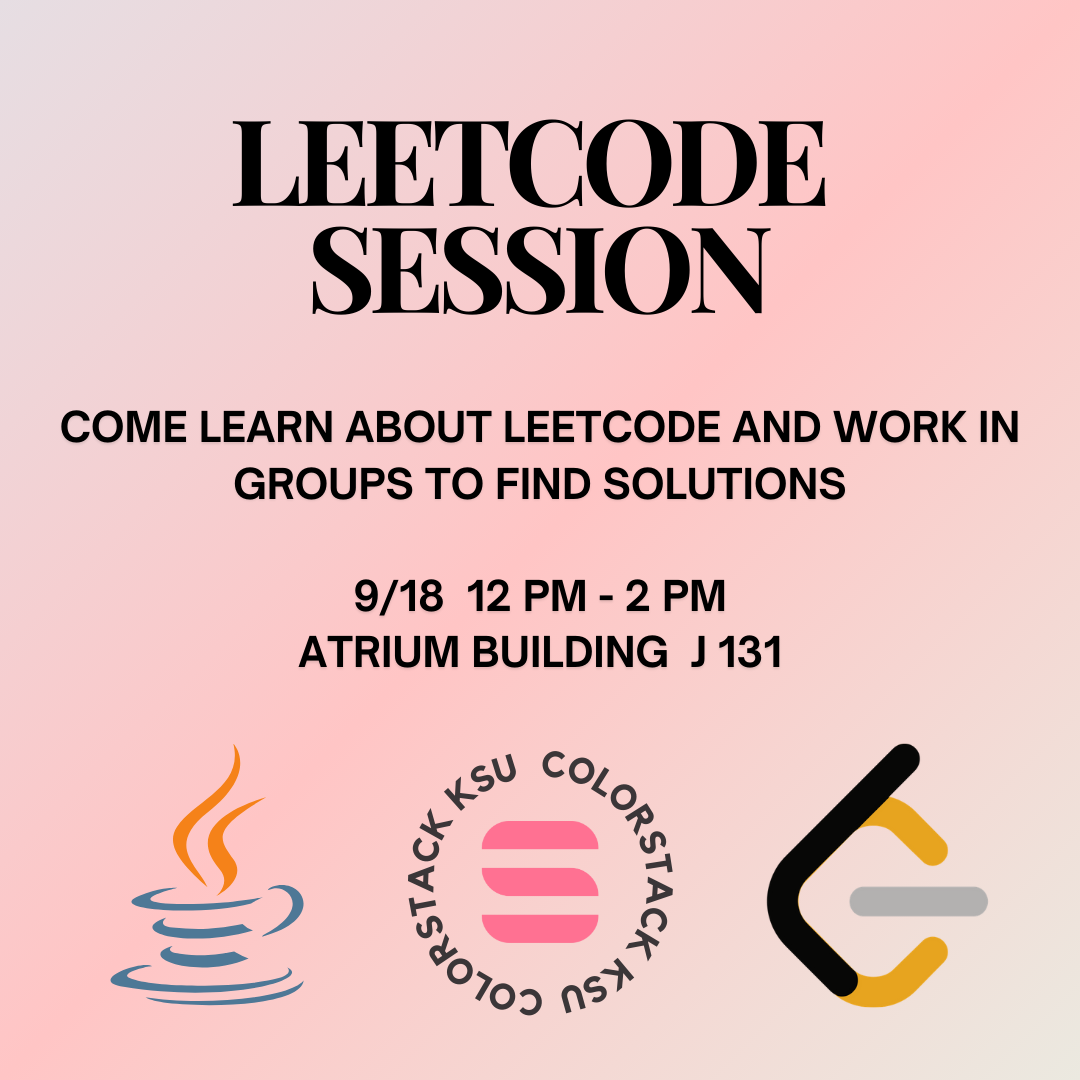
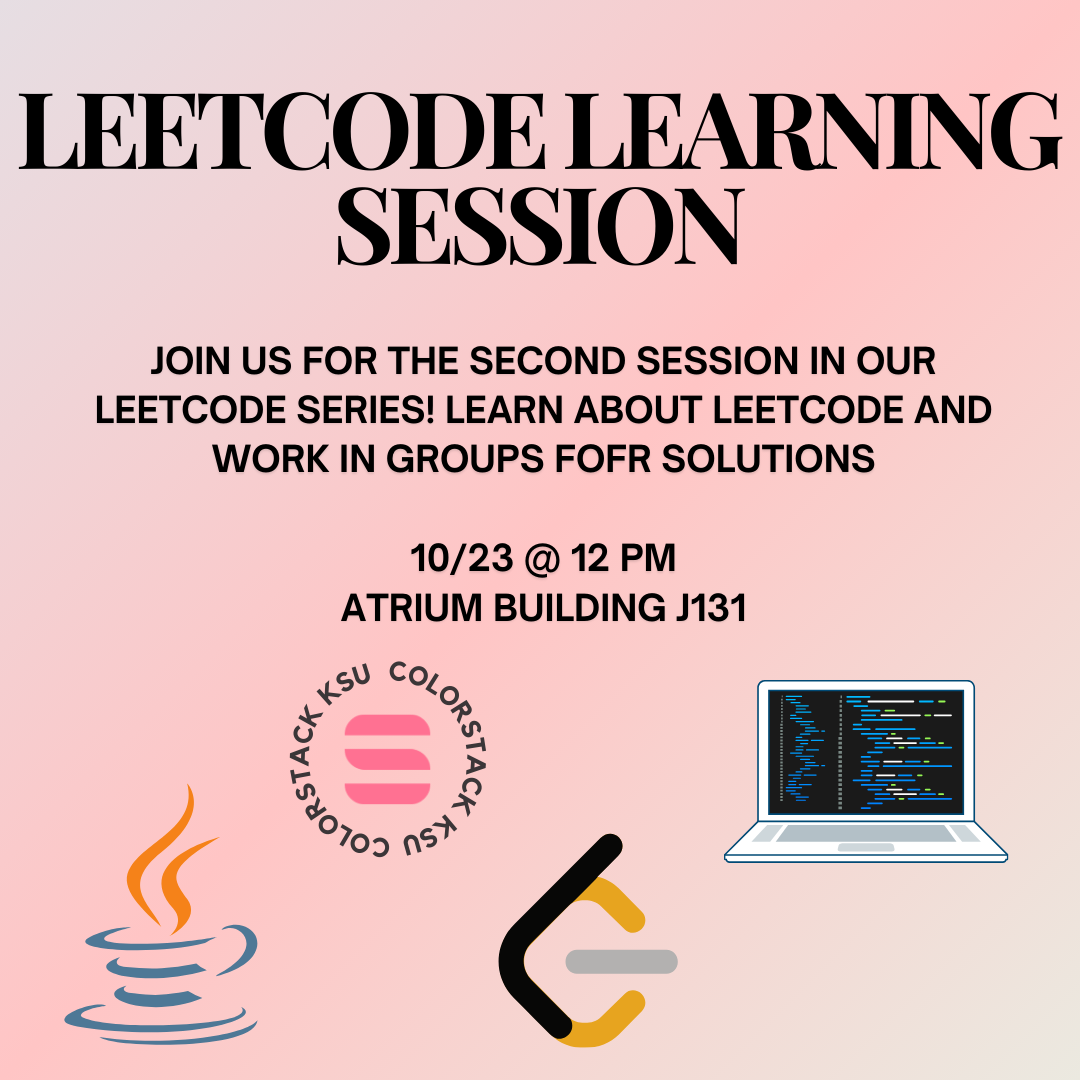
made changes to events and css

Changed region(s): [[0.0, 0.0611, 0.9778, 0.4583], [0.275, 0.4889, 0.9472, 0.9778], [0.0611, 0.7028, 0.3056, 0.9778]]

diff --git a/frontend/src/Events.jsx b/frontend/src/Events.jsx
@@ -4,42 +4,40 @@ import { Container, Row, Col, Card, Button, Carousel } from "react-bootstrap";
 import "./App.css"; // Ensure the CSS file is named correctly and includes necessary styles
 import images from "./Images";
 import { SiGooglecalendar, SiMicrosoftoutlook } from "react-icons/si";
+import { AddToCalendarButton } from 'add-to-calendar-button-react';
 
 const upcomingEvents = [
   {
     id: 1,
-    date: "SEP 30",
-    title: "Late Night w/ Nvidia",
+    date: "2024-10-15",
+    startTime: "15:00",
+    endTime: "16:00",
+    title: "General Board Meeting",
+    location: "Atrium Building Room 130",
     description:
-      "Interested in Nvidia? Join us for a chat with an engineer and recruiter from Nvidia",
-    imageUrl: images.LateNightNvidia,
-    calendarLink:
-      "https://calendar.google.com/calendar/u/0/r/eventedit?text=Late+Night+With+Nvidia&dates=20240930T230000Z/20241001T010000Z&details=Event+Details&location=ETC+Room+106",
-    calendarLink2:
-      "https://outlook.office.com/calendar/0/deeplink/compose?subject=Late+Night+With+Nvidia&body=Event+Details&location=ETC+Room+106&startdt=2024-09-30T23:00:00Z&enddt=2024-09-31T01:00:00Z",
+      "Come out for our October GBM and get informed on behavioral interview prep with Factset!",
+    imageUrl: images.GBM,
   },
   {
     id: 2,
-    date: "OCT 01",
-    title: "Technical Interview Prep ",
+    date: "2024-10-23",
+    startTime: "12:00",
+    endTime: "13:00",
+    location: "Atrium Building Room 131",
+    title: "Leetcode Learning Session",
     description:
-      "Get prepared for technical interviews with Colorstack x SHPE x AT&T",
-    imageUrl: images.TechPrepSHPEATT,
-    calendarLink:
-      "https://calendar.google.com/calendar/u/0/r/eventedit?text=Technical+Interview+Prep&dates=20241001T230000Z/20241002T010000Z&details=Event+Details&location=Atrium+Building+Room+131",
-    calendarLink2:
-      "https://outlook.office.com/calendar/0/deeplink/compose?subject=Technical+Interview+Prep&body=Event+Details&location=Atrium+Building+Room+131&startdt=2024-10-01T23:00:00Z&enddt=2024-10-02T01:00:00Z",
+      "Join us for the second session in our leetcode series! Learn about leetcode and work in groups fofr solutions",
+    imageUrl: images.LeetCodeSesh,
   },
   {
     id: 3,
-    date: "OCT 08",
-    title: "Study Session",
-    description: "Come study with other Colorstack members",
-    imageUrl: images.StudySesh1008,
-    calendarLink:
-      "https://calendar.google.com/calendar/u/0/r/eventedit?text=Study+Session&dates=20241008T230000Z/20241009T010000Z&details=Event+Details&location=Atrium+Building+Room+157",
-    calendarLink2:
-      "https://outlook.office.com/calendar/0/deeplink/compose?subject=Study+Session&body=Event+Details&location=Atrium+Building+Room+157&startdt=2024-10-08T23:00:00Z&enddt=2024-10-09T01:00:00Z",
+    date: "2024-10-29",
+    startTime: "18:30",
+    endTime: "19:30",
+    location: "ETC+Room+106",
+    title: "Spooky Boots Movie Night",
+    description: "Joim us for a scary time with a spooky movie screening!",
+    imageUrl: images.SpookyMovNight
   },
 ];
 
@@ -56,6 +54,8 @@ const pastEventsImages = [
   images.ResumeWorkshop,
   images.IceCreamSocial,
   images.LeetCodeSesh,
+  images.TechPrepSHPEATT,
+  images.LateNightNvidia
   // Include up to 10 image paths
 ];
 
@@ -131,7 +131,7 @@ const Events = () => {
                 <Card.Body>
                   <Card.Title>{event.title}</Card.Title>
                   <Card.Text>{event.description}</Card.Text>
-                  <a href={event.calendarLink} target="_blank">
+                  {/* <a href={event.calendarLink} target="_blank">
                     <SiGooglecalendar
                       style={{
                         width: "40px",
@@ -139,8 +139,8 @@ const Events = () => {
                         marginRight: "10px",
                       }}
                     />
-                  </a>
-                  <a href={event.calendarLink2} target="_blank">
+                  </a> */}
+                  {/* <a href={event.calendarLink2} target="_blank">
                     <SiMicrosoftoutlook
                       style={{
                         width: "40px",
@@ -148,9 +148,22 @@ const Events = () => {
                         marginLeft: "10px",
                       }}
                     />
-                  </a>
+                  </a> */}
                   {/* <Button href={event.calendarLink} variant="outline-warning">Add event to calendar</Button> */}
-                  <p>Add to Calendar</p>
+                  <br />
+                  <div className="d-flex justify-content-center">
+                    <AddToCalendarButton
+                      name={event.title}
+                      startDate={event.date}
+                      startTime={event.startTime}
+                      endTime={event.endTime}
+                      location={event.location}
+                      options={['Apple','Google','Outlook.com','iCal']}
+                      timeZone="America/New_York"
+                    />
+                    </div>
+                   {/*Might need to install using npm install add-to-calendar-button-react in terminal */}
+                  {/* <strong>Add to Calendar</strong> */}
                 </Card.Body>
               </Card>
             </Col>
@@ -183,7 +196,7 @@ const Events = () => {
           {/* First Carousel */}
           <Col md={6}>
             <Carousel>
-              {pastEventsImages.slice(0, 3).map((image, index) => (
+              {pastEventsImages.slice(0, 4).map((image, index) => (
                 <Carousel.Item key={index}>
                   <img
                     className="d-block w-100 img-inc"
@@ -199,7 +212,7 @@ const Events = () => {
           {/* Second Carousel */}
           <Col md={6}>
             <Carousel>
-              {pastEventsImages.slice(3, 6).map((image, index) => (
+              {pastEventsImages.slice(4, 8).map((image, index) => (
                 <Carousel.Item key={index}>
                   <img
                     className="d-block w-100 img-inc"

diff --git a/frontend/src/Footer.jsx b/frontend/src/Footer.jsx
@@ -27,7 +27,7 @@ const Footer = () => {
               <a
                 className="text-decoration-none"
                 style={{ color: "inherit" }}
-                href="#eboard"
+                href="./about"
               >
                 About
               </a>
@@ -36,7 +36,7 @@ const Footer = () => {
               <a
                 className="text-decoration-none"
                 style={{ color: "inherit" }}
-                href="#events"
+                href="./events"
               >
                 Events
               </a>
@@ -45,7 +45,7 @@ const Footer = () => {
               <a
                 className="text-decoration-none"
                 style={{ color: "inherit" }}
-                href="#eboard"
+                href="./eboard"
               >
                 E-Board
               </a>
@@ -54,7 +54,7 @@ const Footer = () => {
               <a
                 className="text-decoration-none"
                 style={{ color: "inherit" }}
-                href="#sponsors"
+                href="./sponsors"
               >
                 Sponsors
               </a>

diff --git a/frontend/src/Images.jsx b/frontend/src/Images.jsx
@@ -36,6 +36,8 @@ import StudySesh1008 from "./assets/Flyers/StudySesh1008.png";
 import homepage1 from "./assets/homepage_gallery/homepage_gallery1.jpeg";
 import eboard1 from "./assets/eboard/eboard1.JPG"
 import eboard2 from "./assets/eboard/eboard2.JPG"
+import GBM from "./assets/Flyers/GBM.png"
+import SpookyMovNight from "./assets/Flyers/SpookyMovNight.png"
 
 const images = {
   helenaImage,
@@ -75,7 +77,9 @@ const images = {
   ColorstackBackground,
   homepage1,
   eboard1,
-  eboard2
+  eboard2,
+  GBM,
+  SpookyMovNight
 };
 
 export default images;

diff --git a/frontend/src/App.css b/frontend/src/App.css
@@ -247,6 +247,7 @@ p {
 }
 
 .custom-h1 {
+  margin-top: 20px;
   font-size: 3em; /* Adjust size as needed */
   color: #4a90e2; /* Main text color */
   text-align: center;
